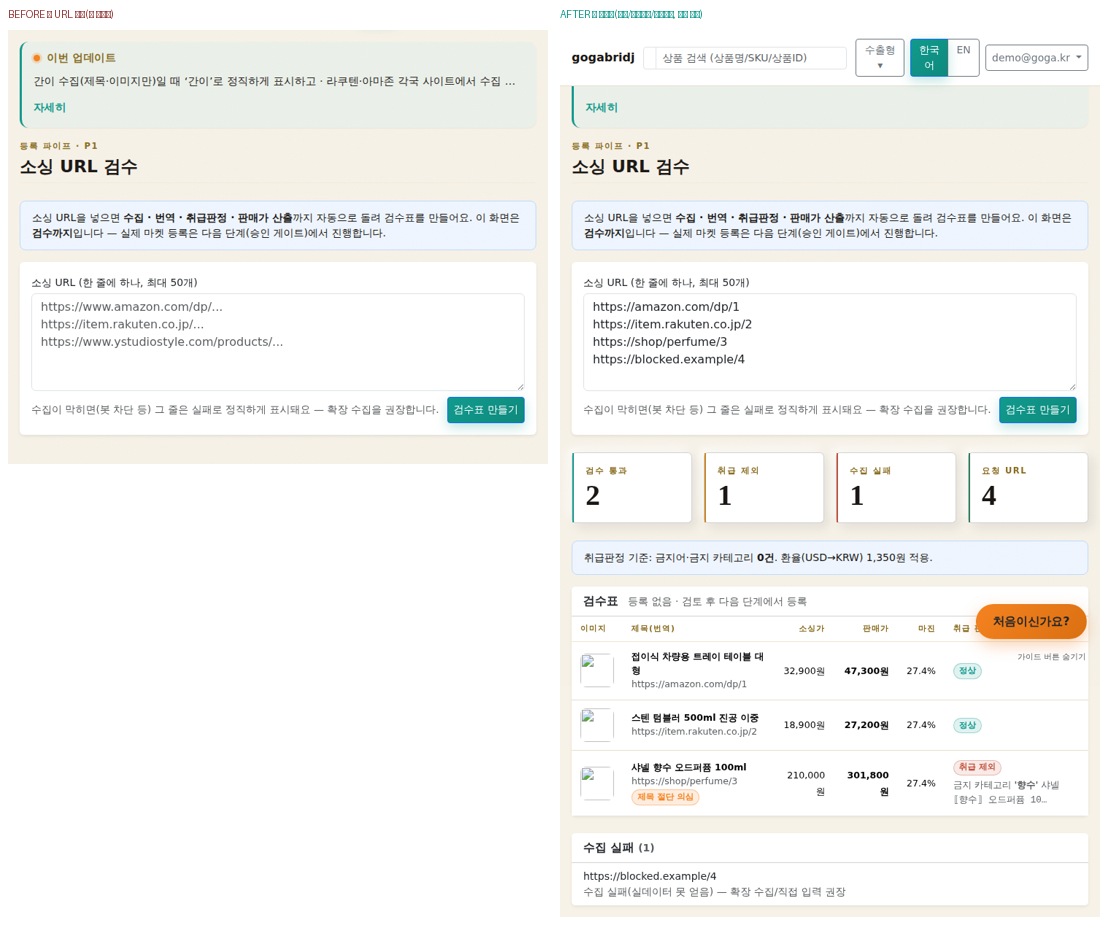
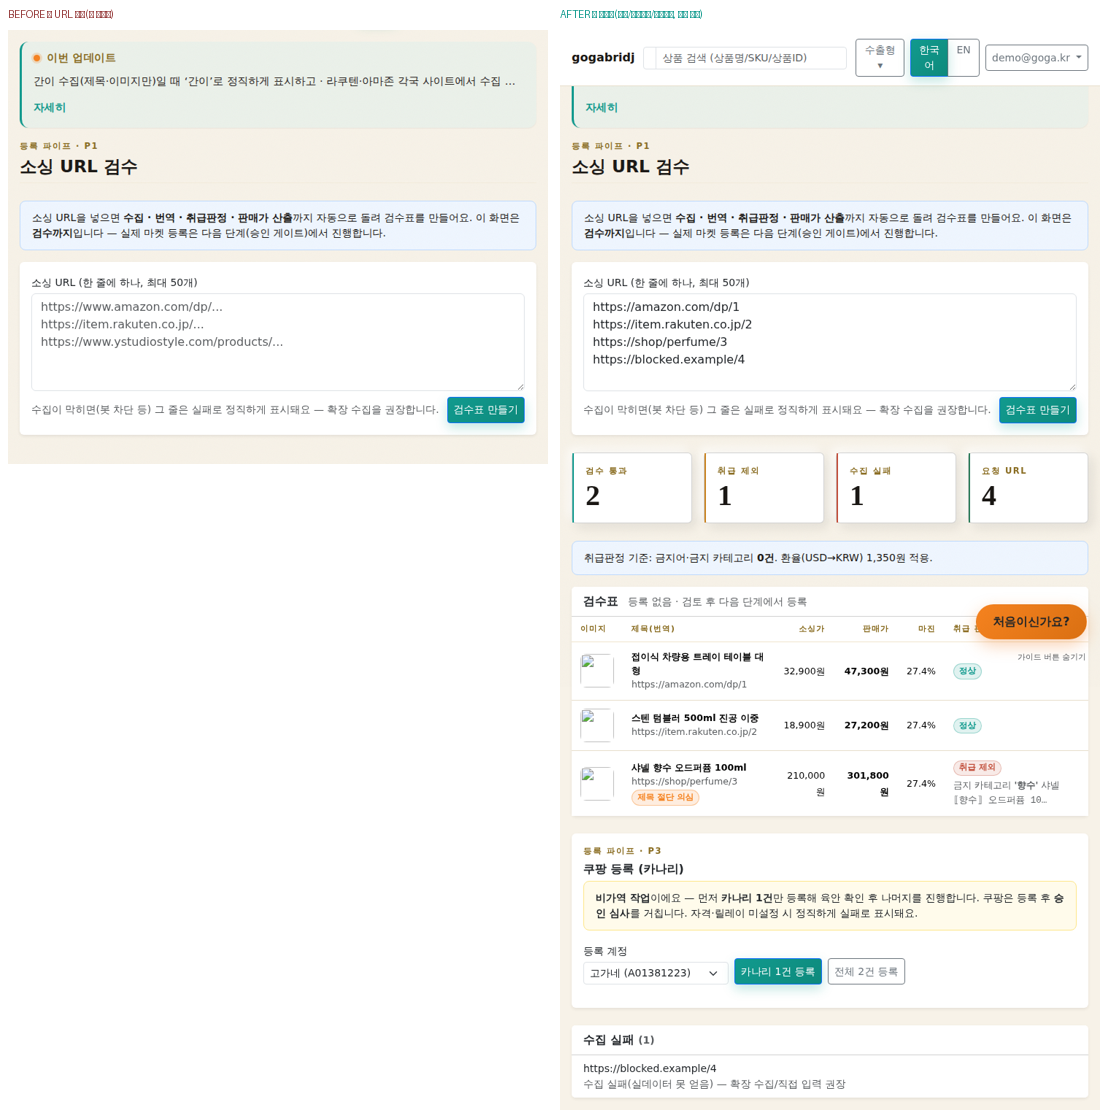
등록 파이프 P3: 승인 게이트 + 쿠팡 카나리 실등록 (#650)
P1 검수 통과분을 쿠팡에 실등록. 파일럿 register_pilot_rows 패턴 재사용. 비가역 방어 다중.

- register_source_rows: 승인 게이트(REGISTER_PIPE_APPROVED env·기본 승인) + 카나리 기본 1건
  (전량은 육안 후 batch_ok=1) + 롤백 금지 + 행별 registered+사유(조용한 실패 0) + 이미지 0장 등록 보류.
- 계정 라우팅: _account_creds(account) → CoupangUploader(creds) 고가네/우주대행.
  coupang_uploader.__init__에 계정별 자격 오버라이드 인자 추가(기본 env 불변).
- 라우트 POST /seller/sourcing/register-pipe/register: 검수→통과분→register_source_rows,
  dispatch=_coupang_account_dispatch(계정 creds·prepare·upload). 자격/미승인=정직 차단(가짜 성공 0).
- UI: register_pipe.html "쿠팡 등록(카나리)" 카드 — 계정 select·카나리1/전체 버튼·JS 결과.
- 계약 6 추가(카나리 1건·배치 계정라우팅·이미지0 보류·롤백금지·승인게이트·미지정계정·라우트).
- 라이브 등록은 Render 전용(쿠팡 자격·릴레이·출고지/반품지 env) — 오너가 카나리 1건부터 트리거.
  before/after 캡처 갱신(P3 카드 추가). 전체 12232 passed / 32 skipped.

적용 스킬: gogabridj-design(오버라인·warn status·pc-badge·이모지0·토큰).

Claude-Session: https://claude.ai/code/session_01PxGVkp5f6YphwkqMwzi5ZE

Changed region(s): [[0.4928, 0.0, 0.9855, 0.9989], [0.0, 0.0, 0.4928, 0.5146], [0.7699, 0.0303, 1.0, 0.0908]]

diff --git a/src/seller_console/templates/register_pipe.html b/src/seller_console/templates/register_pipe.html
@@ -118,6 +118,67 @@
       </table>
     </div></div>
   </div>
+
+  <!-- P3: 쿠팡 카나리 실등록 (비가역 — 승인 게이트 + 카나리 1건 먼저) -->
+  {% if review.review_pass %}
+  <div class="card border-0 shadow-sm mb-4" id="p3RegisterCard">
+    <div class="card-body">
+      <div class="console-kpi-label mb-1">등록 파이프 · P3</div>
+      <div class="fw-bold mb-1"><i class="bi bi-upload"></i> 쿠팡 등록 (카나리)</div>
+      <div class="pc-status pc-status-warning small mb-3">
+        <strong>비가역 작업</strong>이에요 — 먼저 <strong>카나리 1건</strong>만 등록해 육안 확인 후 나머지를 진행합니다.
+        쿠팡은 등록 후 <strong>승인 심사</strong>를 거칩니다. 자격·릴레이 미설정 시 정직하게 실패로 표시돼요.
+      </div>
+      <div class="row g-2 align-items-end">
+        <div class="col-auto">
+          <label class="form-label small mb-1" for="p3Account">등록 계정</label>
+          <select id="p3Account" class="form-select form-select-sm">
+            <option value="gogane">고가네 (A01381223)</option>
+            <option value="woojoo">우주대행 (A01504840)</option>
+          </select>
+        </div>
+        <div class="col-auto">
+          <button type="button" class="btn btn-primary btn-sm" onclick="p3Register(false)">
+            <i class="bi bi-1-circle"></i> 카나리 1건 등록
+          </button>
+        </div>
+        <div class="col-auto">
+          <button type="button" class="btn btn-outline-secondary btn-sm" onclick="p3Register(true)"
+            title="카나리 확인 후에만 사용하세요">전체 {{ review.review_pass|length }}건 등록</button>
+        </div>
+      </div>
+      <div id="p3Result" class="mt-3"></div>
+    </div>
+  </div>
+  <script>
+  async function p3Register(batch) {
+    var urls = (document.getElementById('urls') || {}).value || '';
+    var account = document.getElementById('p3Account').value;
+    var box = document.getElementById('p3Result');
+    box.innerHTML = '<span class="text-muted small">등록 중… (쿠팡 승인 심사 대기)</span>';
+    var body = new URLSearchParams({urls: urls, account: account});
+    if (batch) { body.set('batch_ok', '1'); body.set('n', '{{ review.review_pass|length }}'); }
+    try {
+      var r = await fetch('/seller/sourcing/register-pipe/register', {method: 'POST', body: body});
+      var d = await r.json();
+      if (!d.ok) { box.innerHTML = '<div class="pc-status pc-status-danger small">' + (d.error || '등록 실패') + '</div>'; return; }
+      var rows = (d.results || []).map(function(x) {
+        var badge = x.registered ? '<span class="pc-badge pc-badge-on">등록됨</span>'
+                                 : '<span class="pc-badge pc-badge-danger">실패</span>';
+        var link = x.market_url ? ' <a href="' + x.market_url + '" target="_blank" rel="noopener">상품</a>' : '';
+        return '<li class="list-group-item small">' + badge + ' ' + (x.title || x.url || '') + link
+             + (x.reason ? '<div class="text-muted">' + x.reason + '</div>' : '') + '</li>';
+      }).join('');
+      box.innerHTML = '<div class="pc-status pc-status-success small mb-2">' + d.mode + ' · ' + d.account
+        + ' · 등록 ' + d.registered + ' / 실패 ' + d.failed + ' — ' + (d.note || '') + '</div>'
+        + '<ul class="list-group list-group-flush">' + rows + '</ul>';
+    } catch (e) {
+      box.innerHTML = '<div class="pc-status pc-status-danger small">등록 요청 실패: ' + e + '</div>';
+    }
+  }
+  </script>
+  {% endif %}
+
   {% endif %}
 
   <!-- 수집 실패(정직) -->

diff --git a/src/pipeline/register_pipe.py b/src/pipeline/register_pipe.py
@@ -1,17 +1,18 @@
-"""src/pipeline/register_pipe.py — 등록 파이프 이식 P1: 소싱 URL → 수집·검증 → 검수표 (등록 없음).
+"""src/pipeline/register_pipe.py — 등록 파이프 이식 P1(검수표) + P3(승인 게이트·카나리 쿠팡 실등록).
 
-Bluehost 수동 스크립트 등록을 콘솔 클릭 등록으로 이식하는 첫 단계. **등록은 절대 안 한다**(P3에서
-카나리 게이트로 실등록 — 이 모듈은 검수표까지). 서버 기존 자산 최대 재사용(발명 최소):
+Bluehost 수동 스크립트 등록을 콘솔 클릭 등록으로 이식. 서버 기존 자산 최대 재사용(발명 최소):
   - 수집: `_collect_real_draft`(도메인 dispatcher + 범용 스크래퍼 + 번역) 주입.
   - 정제/판정/가격: `clean_title_ko`·`is_forbidden`(blacklist 151)·`recalc_channel_price`(÷0.618 정합) 재사용.
-파일럿 검수표(`build_review_row`)와 **동형 출력** — 후속 P3가 같은 행으로 등록 실행.
+P1 = 검수표(등록 없음). P3 = 검수 통과분을 **카나리 게이트**로 쿠팡 실등록(파일럿 register_pilot_rows 패턴).
 """
 from __future__ import annotations
 
+import os
 from typing import Optional
 
 from src.pipeline.coupang_replicate import (
     DEFAULT_MARGIN_RATE,
+    IMAGE_CAP,
     clean_title_ko,
     is_forbidden,
     recalc_channel_price,
@@ -133,4 +134,102 @@ def build_source_review(urls, *, collect_fn, channel: str = "woocommerce_multish
         "failed": failed,
         "requested": len(clean_urls),
         "capped": len(clean_urls) > cap,
+    }
+
+
+# ── P3: 승인 게이트 + 카나리 쿠팡 실등록 (파일럿 register_pilot_rows 패턴) ──────────
+_REGISTER_PIPE_APPROVED_DEFAULT = True   # 오너 "allow 승인"(2026-08-22). 안전은 카나리 게이트로 이관.
+
+
+def register_pipe_approved() -> bool:
+    """P3 실등록 승인 여부. env `REGISTER_PIPE_APPROVED` 우선(미설정=오너 승인 기본). 안전=카나리."""
+    v = os.getenv("REGISTER_PIPE_APPROVED", "").strip().lower()
+    if v:
+        return v in ("1", "true", "yes", "on")
+    return _REGISTER_PIPE_APPROVED_DEFAULT
+
+
+def _res_field(res, key, *alts):
+    if isinstance(res, dict):
+        for k in (key,) + alts:
+            if k in res:
+                return res[k]
+        return None
+    for k in (key,) + alts:
+        if hasattr(res, k):
+            return getattr(res, k)
+    return None
+
+
+def register_source_rows(rows, *, dispatch_fn, enrich_fn=None, account: str = "gogane",
+                         n: int = 1, batch_ok: bool = False, approved: Optional[bool] = None,
+                         sleep_fn=None, sleep_sec: float = 0.6) -> dict:
+    """P1 검수 통과분 → **쿠팡 실등록**. 승인 게이트 + **카나리(기본 1건)** + 롤백 금지 + 행별 사유.
+
+    - **비가역 방어:** approved 아니면 등록 0(정직 차단). batch_ok=False면 첫 1건만(카나리), 전량은
+      육안 확인 후 batch_ok=1로만. 부분 실패 시 성공분 유지(롤백 금지)·조용한 실패 금지(행별 registered+사유).
+    - **이미지 0장은 등록 안 함**(안 팔릴 상품 — P1/파일럿 정책 일관).
+    - dispatch_fn(product_data, account)→ 등록 결과({success, product_id, url, error} 또는 동형 객체).
+      enrich_fn(row)→{images, description_html, category_code} 재수집(이미지·상세). 둘 다 주입(발명 0·오프라인).
+    """
+    if approved is None:
+        approved = register_pipe_approved()
+    if not approved:
+        return {"ok": False, "approved": False,
+                "error": "REGISTER_PIPE_APPROVED 미승인 — 실등록 차단(안전 게이트)"}
+    if account not in ("gogane", "woojoo"):
+        return {"ok": False, "error": f"알 수 없는 계정: {account} (gogane/woojoo)"}
+
+    import time as _t
+    sleep_fn = sleep_fn or _t.sleep
+    passable = [r for r in (rows or []) if not r.get("excluded")]
+    passable = passable[:1] if not batch_ok else passable[:max(0, int(n))]
+    results = []
+    for i, r in enumerate(passable):
+        if i and sleep_sec:
+            sleep_fn(sleep_sec)                          # 레이트리밋 예의(호출 간격)
+        images, desc, cat = [], "", r.get("category_code")
+        if enrich_fn:
+            try:
+                e = enrich_fn(r) or {}
+                images = list(e.get("images") or [])[:IMAGE_CAP]
+                desc = e.get("description_html") or ""
+                cat = e.get("category_code") or cat
+            except Exception as exc:                     # 수집 실패 = 정직 실패(등록 안 함), 다음 행 계속
+                results.append({"url": r.get("url"), "title": r.get("title_ko"), "registered": False,
+                                "reason": f"collect 실패: {exc}", "image_count": 0, "product_id": None})
+                continue
+        if not images:                                   # 이미지 0장 → 등록 보류(안 팔릴 상품 공개 방지)
+            results.append({"url": r.get("url"), "title": r.get("title_ko"), "registered": False,
+                            "reason": "이미지 0장 — 등록 보류(수집 실패, 확장 수집 권장)",
+                            "image_count": 0, "product_id": None})
+            continue
+        product_data = {
+            "title_ko": r.get("title_ko"), "sell_price_krw": r.get("sale_krw"),
+            "images": images, "description_html": desc, "category_code": cat,
+            "url": r.get("url"), "source": r.get("source"),
+        }
+        try:
+            res = dispatch_fn(product_data, account)
+        except Exception as exc:                         # 롤백 금지 — 실패분만 기록하고 계속
+            results.append({"url": r.get("url"), "title": r.get("title_ko"), "registered": False,
+                            "reason": f"dispatch 예외: {exc}", "image_count": len(images), "product_id": None})
+            continue
+        ok = bool(_res_field(res, "success"))
+        results.append({
+            "url": r.get("url"), "title": r.get("title_ko"), "account": account,
+            "registered": ok, "image_count": len(images),
+            "product_id": (_res_field(res, "product_id") if ok else None),
+            "market_url": (_res_field(res, "url", "external_url") if ok else None),
+            "reason": None if ok else (_res_field(res, "error", "message") or "쿠팡 등록 실패"),
+        })
+    return {
+        "ok": True, "approved": True, "account": account,
+        "mode": "canary" if not batch_ok else "batch",
+        "target": len(passable), "batch_ok": bool(batch_ok),
+        "registered": sum(1 for x in results if x["registered"]),
+        "failed": sum(1 for x in results if not x["registered"]),
+        "results": results,
+        "note": ("카나리 1건 — 쿠팡 승인심사 대기, 육안 확인 후 batch_ok=1로 속행"
+                 if not batch_ok else f"배치 {len(passable)}건(쿠팡 승인심사 대기)"),
     }

diff --git a/tests/test_register_pipe_p1.py b/tests/test_register_pipe_p1.py
@@ -107,3 +107,76 @@ def test_route_post_builds_review_table_no_register(monkeypatch):
     r = c.post("/seller/sourcing/register-pipe", data={"urls": "https://ok/1\nhttps://fail/2"})
     body = r.get_data(as_text=True)
     assert r.status_code == 200 and "검수표" in body and "수집 실패" in body
+
+
+# ── P3: 승인 게이트 + 카나리 쿠팡 실등록 ──────────────────────────────────────────
+def _p3_rows():
+    return [{"url": "https://x/1", "title_ko": "원목 식탁", "sale_krw": 71900, "excluded": False},
+            {"url": "https://x/2", "title_ko": "스텐 텀블러", "sale_krw": 27200, "excluded": False},
+            {"url": "https://x/3", "title_ko": "샤넬 향수", "sale_krw": 300000, "excluded": True}]  # 취급제외
+
+
+def test_p3_canary_registers_only_one():
+    calls = []
+    def disp(pd, acct):
+        calls.append((pd["title_ko"], acct))
+        return {"success": True, "product_id": "CP%d" % len(calls), "url": "https://coupang/CP"}
+    out = RP.register_source_rows(_p3_rows(), dispatch_fn=disp,
+                                  enrich_fn=lambda r: {"images": ["https://i/1.jpg", "https://i/2.jpg"]},
+                                  account="gogane", sleep_fn=lambda s: None)
+    assert out["ok"] and out["mode"] == "canary" and out["target"] == 1 and out["registered"] == 1
+    assert len(calls) == 1 and calls[0][1] == "gogane"          # 첫 통과분 1건만(취급제외 제외)
+    assert out["results"][0]["product_id"] == "CP1"
+
+
+def test_p3_batch_registers_passing_only_and_account_routes():
+    calls = []
+    def disp(pd, acct):
+        calls.append(acct); return {"success": True, "product_id": "X", "url": "u"}
+    out = RP.register_source_rows(_p3_rows(), dispatch_fn=disp,
+                                  enrich_fn=lambda r: {"images": ["u"]},
+                                  account="woojoo", batch_ok=True, n=5, sleep_fn=lambda s: None)
+    assert out["registered"] == 2 and out["target"] == 2         # 통과 2건(샤넬 제외)
+    assert calls == ["woojoo", "woojoo"]                          # 계정 라우팅
+
+
+def test_p3_no_image_not_registered_and_partial_failure_no_rollback():
+    def disp(pd, acct):
+        # 스텐 텀블러만 성공, 원목은 이미지 있으나 dispatch 거부.
+        if "텀블러" in pd["title_ko"]:
+            return {"success": True, "product_id": "OK", "url": "u"}
+        return {"success": False, "error": "쿠팡 등록 거부: 카테고리 사전승인"}
+    def enrich(r):
+        return {"images": []} if "식탁" in r["title_ko"] else {"images": ["u"]}
+    out = RP.register_source_rows(_p3_rows(), dispatch_fn=disp, enrich_fn=enrich,
+                                  account="gogane", batch_ok=True, n=5, sleep_fn=lambda s: None)
+    # 원목=이미지0 보류, 텀블러=성공 → 성공분 유지(롤백 금지), 실패분 사유.
+    assert out["registered"] == 1 and out["failed"] == 1
+    noimg = [x for x in out["results"] if "식탁" in x["title"]][0]
+    assert noimg["registered"] is False and "이미지 0장" in noimg["reason"]
+
+
+def test_p3_gated_when_not_approved():
+    out = RP.register_source_rows(_p3_rows(), dispatch_fn=lambda pd, a: {"success": True},
+                                  enrich_fn=lambda r: {"images": ["u"]}, approved=False)
+    assert out["ok"] is False and out["approved"] is False and "미승인" in out["error"]
+
+
+def test_p3_unknown_account_rejected():
+    out = RP.register_source_rows(_p3_rows(), dispatch_fn=lambda pd, a: {"success": True},
+                                  enrich_fn=lambda r: {"images": ["u"]}, account="foo", approved=True)
+    assert out["ok"] is False and "알 수 없는 계정" in out["error"]
+
+
+def test_p3_route_gated_or_registers(monkeypatch):
+    c = _client(monkeypatch)
+    import src.seller_console.views as V
+    monkeypatch.setattr(V, "_collect_real_draft",
+                        lambda url, translate=True: {"title_ko": "원목 식탁", "currency": "KRW",
+                                                     "price_original": 50000, "images": ["https://i/1.jpg"]})
+    # dispatch를 몽키패치해 라이브 쿠팡 호출 없이 성공 반환.
+    monkeypatch.setattr(V, "_coupang_account_dispatch",
+                        lambda pd, account: {"success": True, "product_id": "CP1", "url": "https://coupang/CP1"})
+    r = c.post("/seller/sourcing/register-pipe/register", data={"urls": "https://ok/1", "account": "gogane"})
+    d = r.get_json()
+    assert d["ok"] and d["mode"] == "canary" and d["registered"] == 1 and d["account"] == "gogane"

diff --git a/src/seller_console/views.py b/src/seller_console/views.py
@@ -7552,6 +7552,67 @@ def sourcing_register_pipe():
     return render_template("register_pipe.html", page="sourcing", review=review, urls_text=urls_text)
 
 
+def _coupang_account_dispatch(product_data, account):
+    """P3 쿠팡 실등록 dispatch — 계정별 자격(`_account_creds`)로 `CoupangUploader` 라우팅. 정직 실패."""
+    from src.pipeline.coupang_replicate import _account_creds
+    from src.uploaders.coupang_uploader import CoupangUploader
+    ak, sk, vid = _account_creds(account)
+    if not (ak and sk):
+        return {"success": False, "error": f"{account} 쿠팡 자격 미설정(env) — 등록 불가"}
+    up = CoupangUploader(access_key=ak, secret_key=sk, vendor_id=vid)
+    cat = str(product_data.get("category_code") or "")
+    product = {
+        "title": product_data.get("title_ko") or "상품",
+        "price": int(product_data.get("sell_price_krw") or 0),
+        "original_price": int(product_data.get("sell_price_krw") or 0),
+        "category_id": up.CATEGORY_MAP.get(cat, "76001") if hasattr(up, "CATEGORY_MAP") else "76001",
+        "sku": (product_data.get("url") or "")[-40:],
+        "description": product_data.get("description_html") or product_data.get("title_ko") or "",
+        "images": product_data.get("images") or [],
+        "stock": 99,
+    }
+    return up.upload_product(product)
+
+
+@bp.post("/sourcing/register-pipe/register")
+def sourcing_register_pipe_register():
+    """등록 파이프 P3: 검수 통과분 → **쿠팡 카나리 실등록**(승인 게이트·계정 라우팅·롤백 금지).
+
+    기본 카나리 1건 — 육안 확인 후 `batch_ok=1&n=N`로 속행. 라이브 등록은 Render 전용(쿠팡 자격·릴레이).
+    자격 미설정/미승인이면 정직 차단(가짜 성공 0). 비가역 방어 = 승인 게이트 + 카나리.
+    """
+    if not _check_auth():
+        return jsonify({"ok": False, "error": "로그인이 필요합니다."}), 401
+    from src.pipeline.register_pipe import build_source_review, register_source_rows
+    from src.pipeline.coupang_replicate import load_blacklist85
+
+    urls_text = (request.form.get("urls") or "").strip()
+    raw_urls = [ln.strip() for ln in urls_text.splitlines() if ln.strip()]
+    account = (request.form.get("account") or "gogane").strip().lower()
+    batch_ok = (request.form.get("batch_ok") or "") in ("1", "true", "yes")
+    try:
+        n = int(request.form.get("n", 1))
+    except (TypeError, ValueError):
+        n = 1
+    if not raw_urls:
+        return jsonify({"ok": False, "error": "등록할 소싱 URL이 없습니다."}), 400
+
+    bl = load_blacklist85()
+    review = build_source_review(raw_urls, collect_fn=_collect_real_draft,
+                                 channel="woocommerce_multishop", blacklist=bl.get("terms"), cap=50)
+    passes = review.get("review_pass") or []
+    if not passes:
+        return jsonify({"ok": False, "error": "검수 통과 상품이 없습니다(취급제외/수집실패).",
+                        "excluded": len(review.get("excluded") or []), "failed": len(review.get("failed") or [])}), 400
+
+    result = register_source_rows(
+        passes, dispatch_fn=_coupang_account_dispatch,
+        enrich_fn=lambda r: (_collect_real_draft(r.get("url")) or {}),
+        account=account, n=n, batch_ok=batch_ok)
+    status = 200 if result.get("ok") else 403
+    return jsonify(result), status
+
+
 @bp.post("/sourcing/my-sources")
 def sourcing_my_sources():
     """My Sources 추가/삭제/사용시각 갱신 (Phase 160)."""

diff --git a/src/uploaders/coupang_uploader.py b/src/uploaders/coupang_uploader.py
@@ -53,11 +53,15 @@ class CoupangUploader(BaseUploader):
         'COUPANG_COMPANY_CONTACT_NUMBER': 'company_contact',  # 반품지연락처
     }
 
-    def __init__(self):
-        """Coupang 업로더 초기화. 환경변수에서 API 키·배송정보를 읽는다."""
-        self.access_key = os.getenv('COUPANG_ACCESS_KEY', '')
-        self.secret_key = os.getenv('COUPANG_SECRET_KEY', '')
-        self.vendor_id = os.getenv('COUPANG_VENDOR_ID', '')
+    def __init__(self, access_key: str = None, secret_key: str = None, vendor_id: str = None):
+        """Coupang 업로더 초기화. 기본은 환경변수, **인자로 계정별 자격 오버라이드 가능**(P3 양계정 라우팅).
+
+        access_key/secret_key/vendor_id를 넘기면 그 계정으로 등록(고가네/우주대행 라우팅). 미지정이면 무접두 env.
+        배송정보(출고지/반품지)는 계정 공용이 아닐 수 있어 여전히 env — P3는 계정별 배송 env가 필요하면 후속.
+        """
+        self.access_key = access_key if access_key is not None else os.getenv('COUPANG_ACCESS_KEY', '')
+        self.secret_key = secret_key if secret_key is not None else os.getenv('COUPANG_SECRET_KEY', '')
+        self.vendor_id = vendor_id if vendor_id is not None else os.getenv('COUPANG_VENDOR_ID', '')
         # 셀러 고유 출고지/반품지/Wing ID (Wing > 업체정보 > 배송정보에서 확인)
         self.vendor_user_id = os.getenv('COUPANG_VENDOR_USER_ID', '')
         self.return_center_code = os.getenv('COUPANG_RETURN_CENTER_CODE', '')
